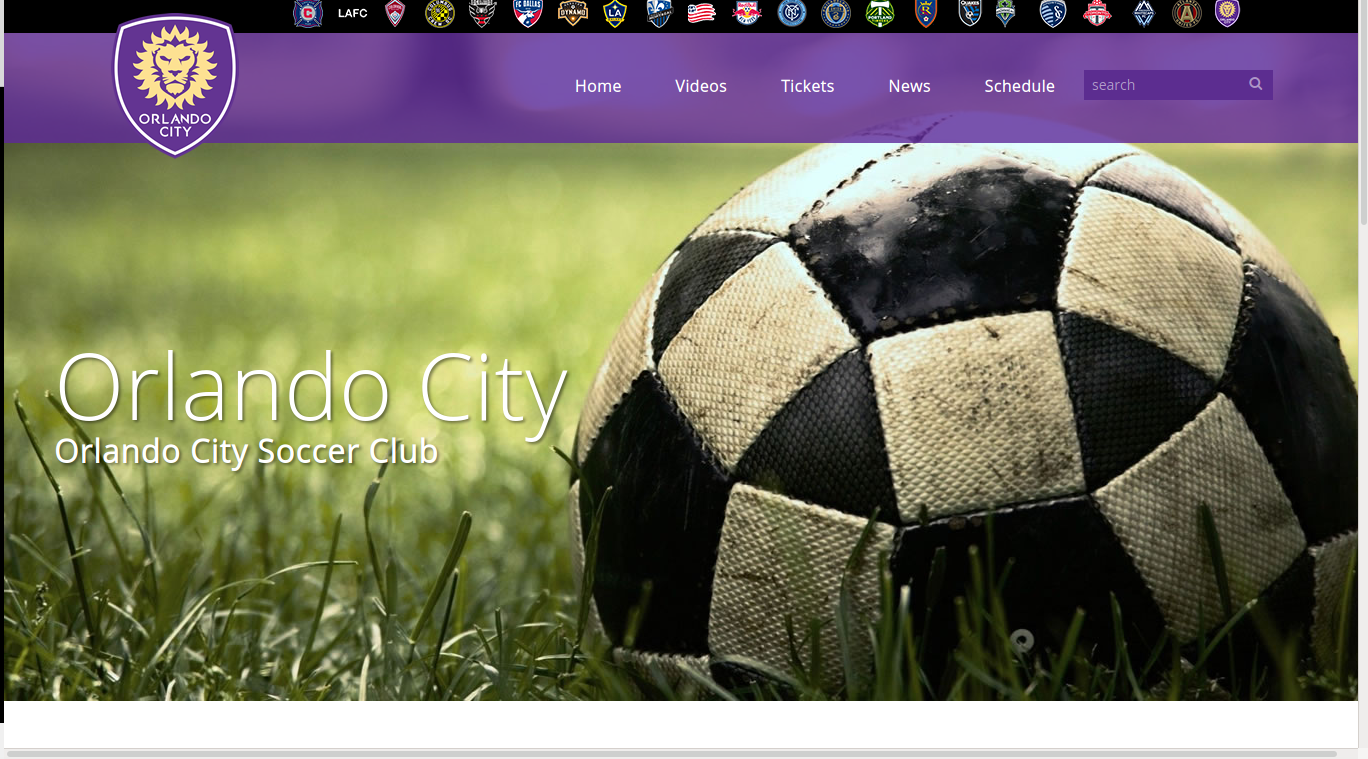
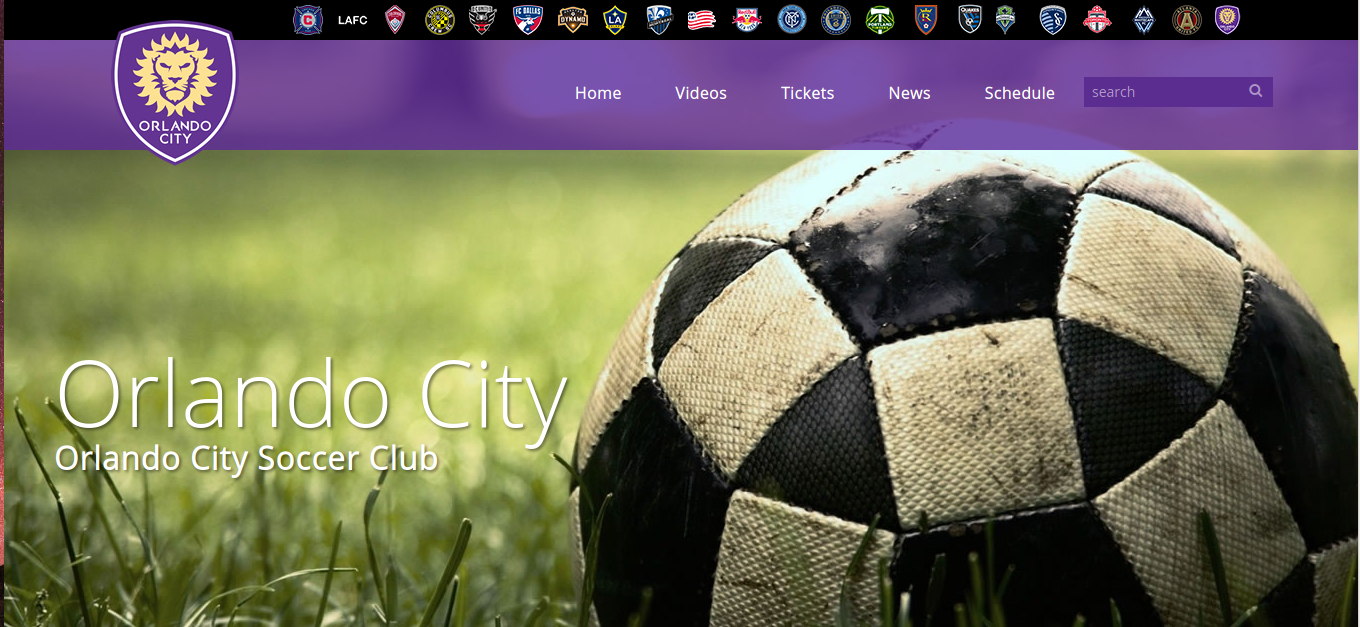
atualiza screenshots
atualiza screenshots readme

diff --git a/README.md b/README.md
@@ -4,7 +4,7 @@
 </p>
 
 <p align="center">
-	<img src="https://raw.githubusercontent.com/DanielOliveiraSouza/OrlandoCity-Clone/master/screenshots/orlando_home_01.png" alt="homepage" width="90%" />
+	<img src="https://raw.githubusercontent.com/DanielOliveiraSouza/OrlandoCity-Clone/master/screenshots/orlando_home_01.png" alt="homepage"/>
 </p>
 
 
